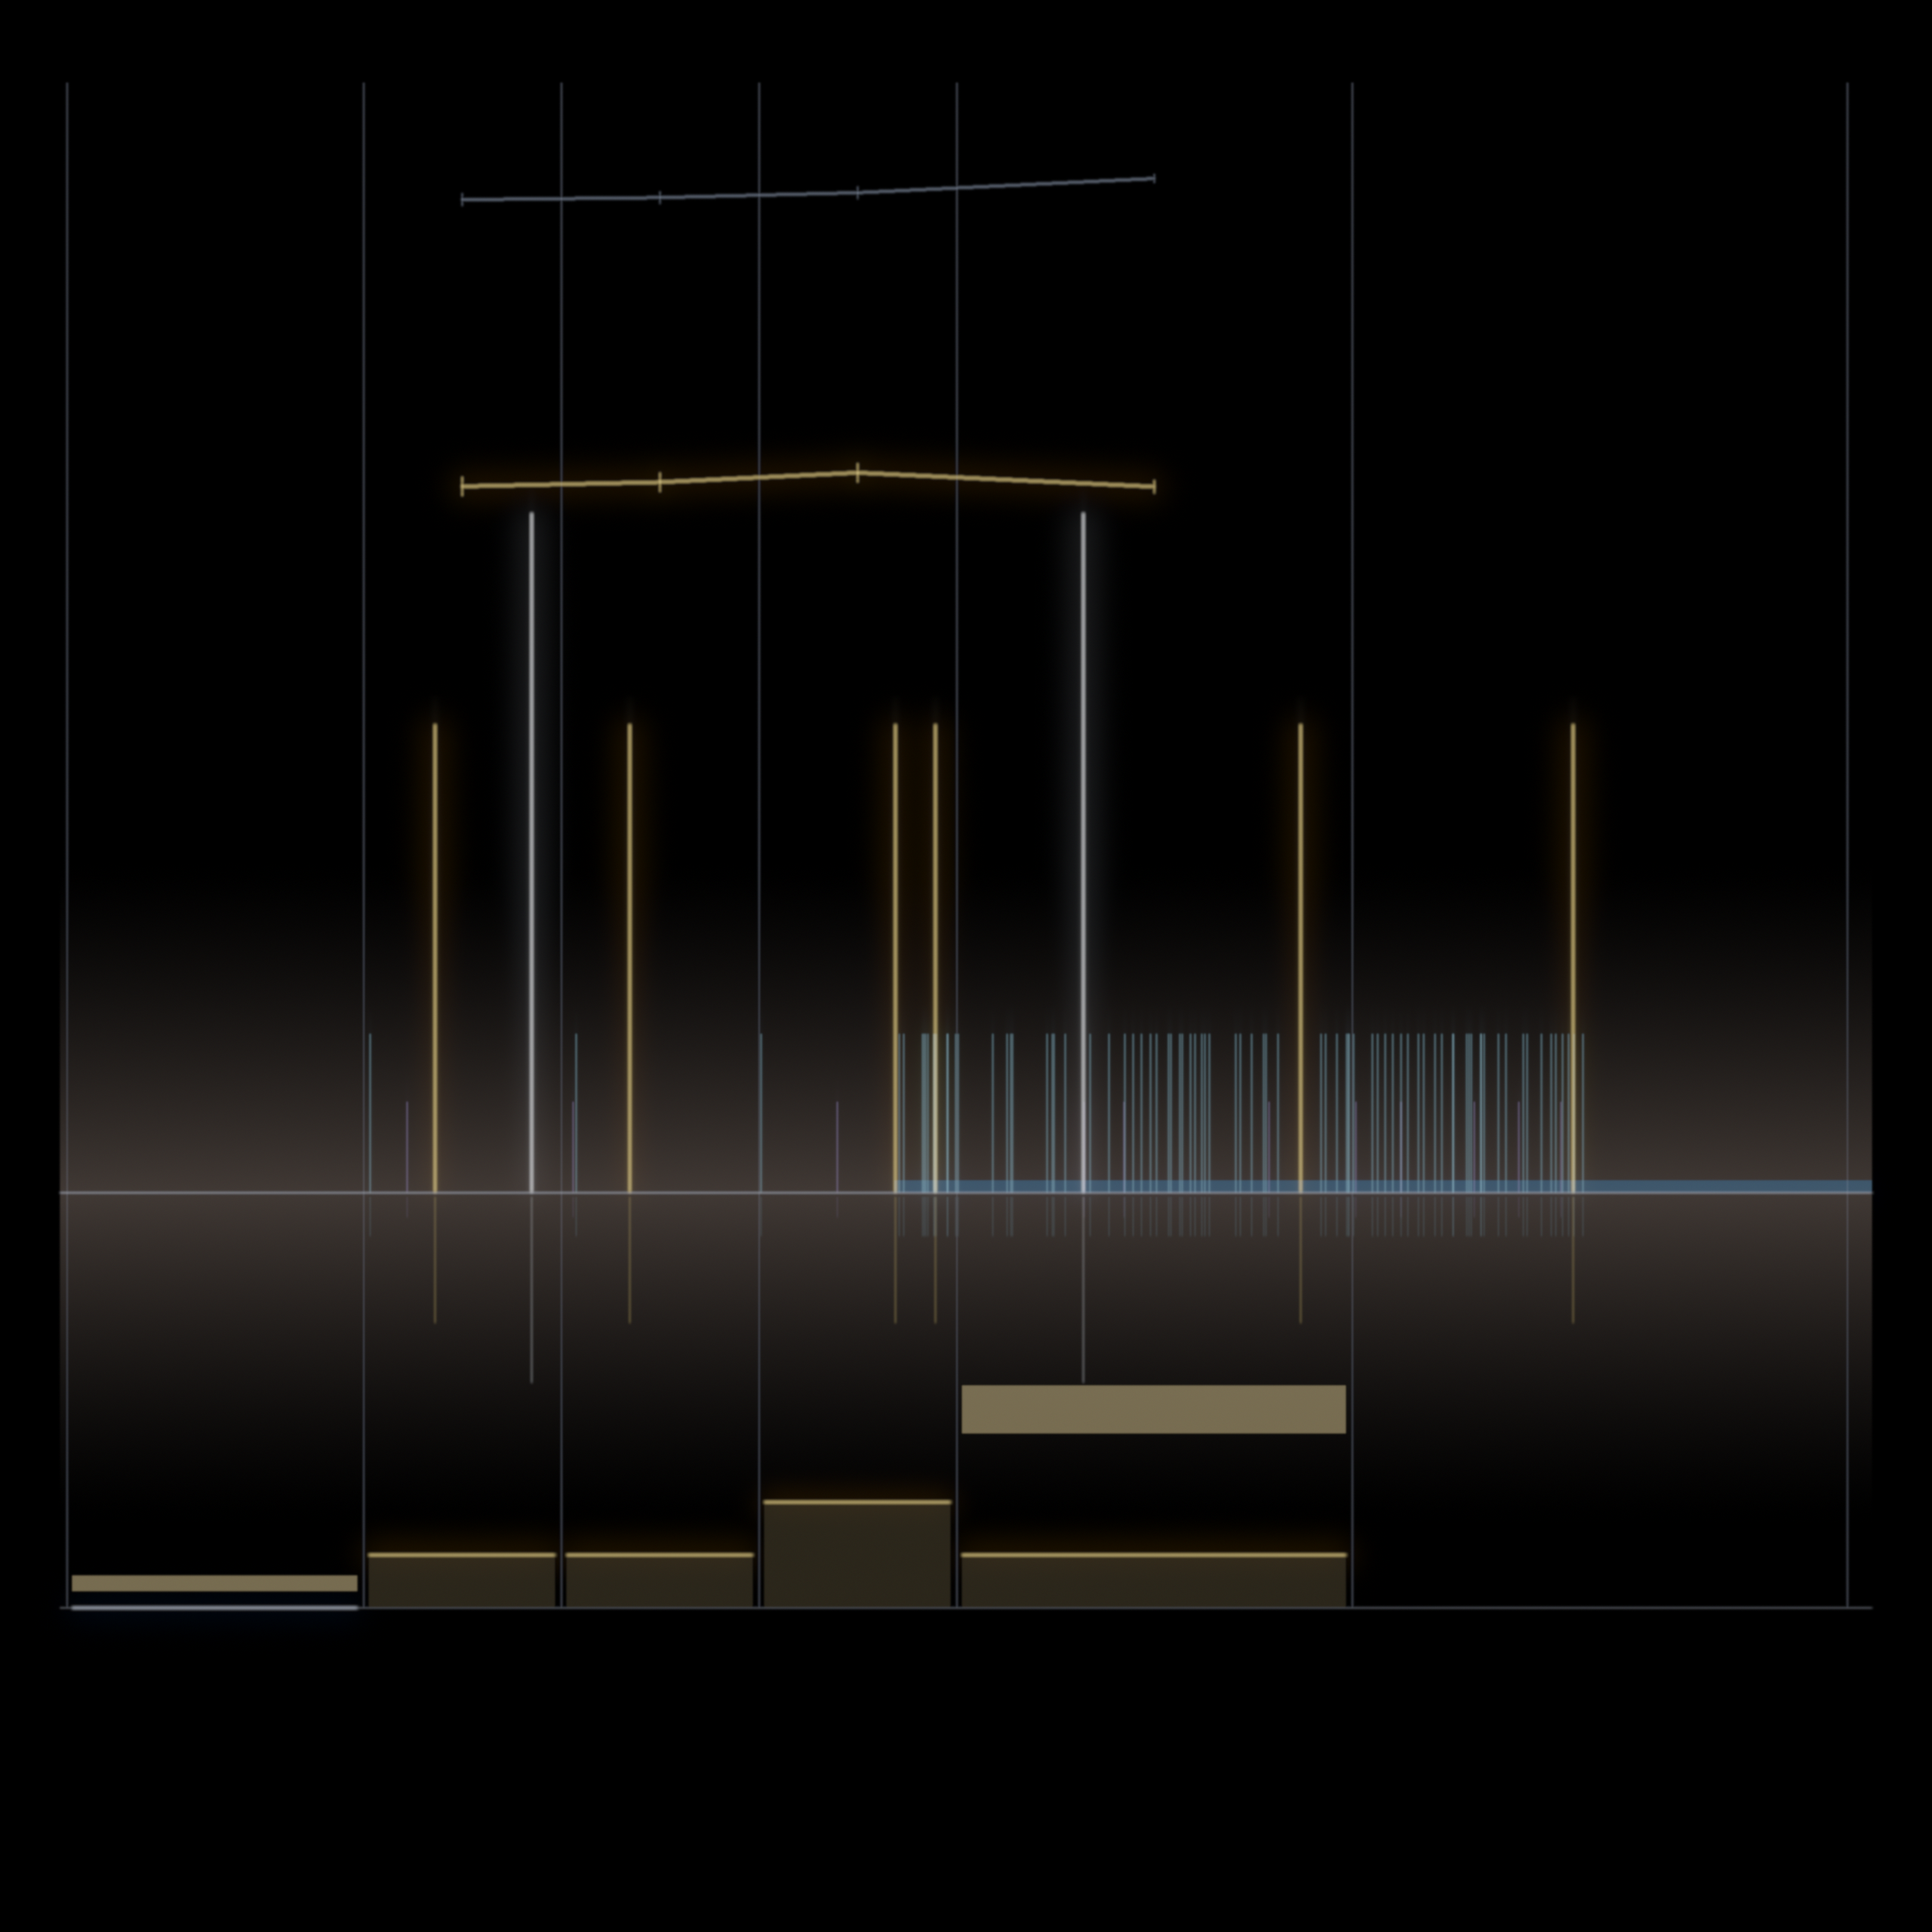
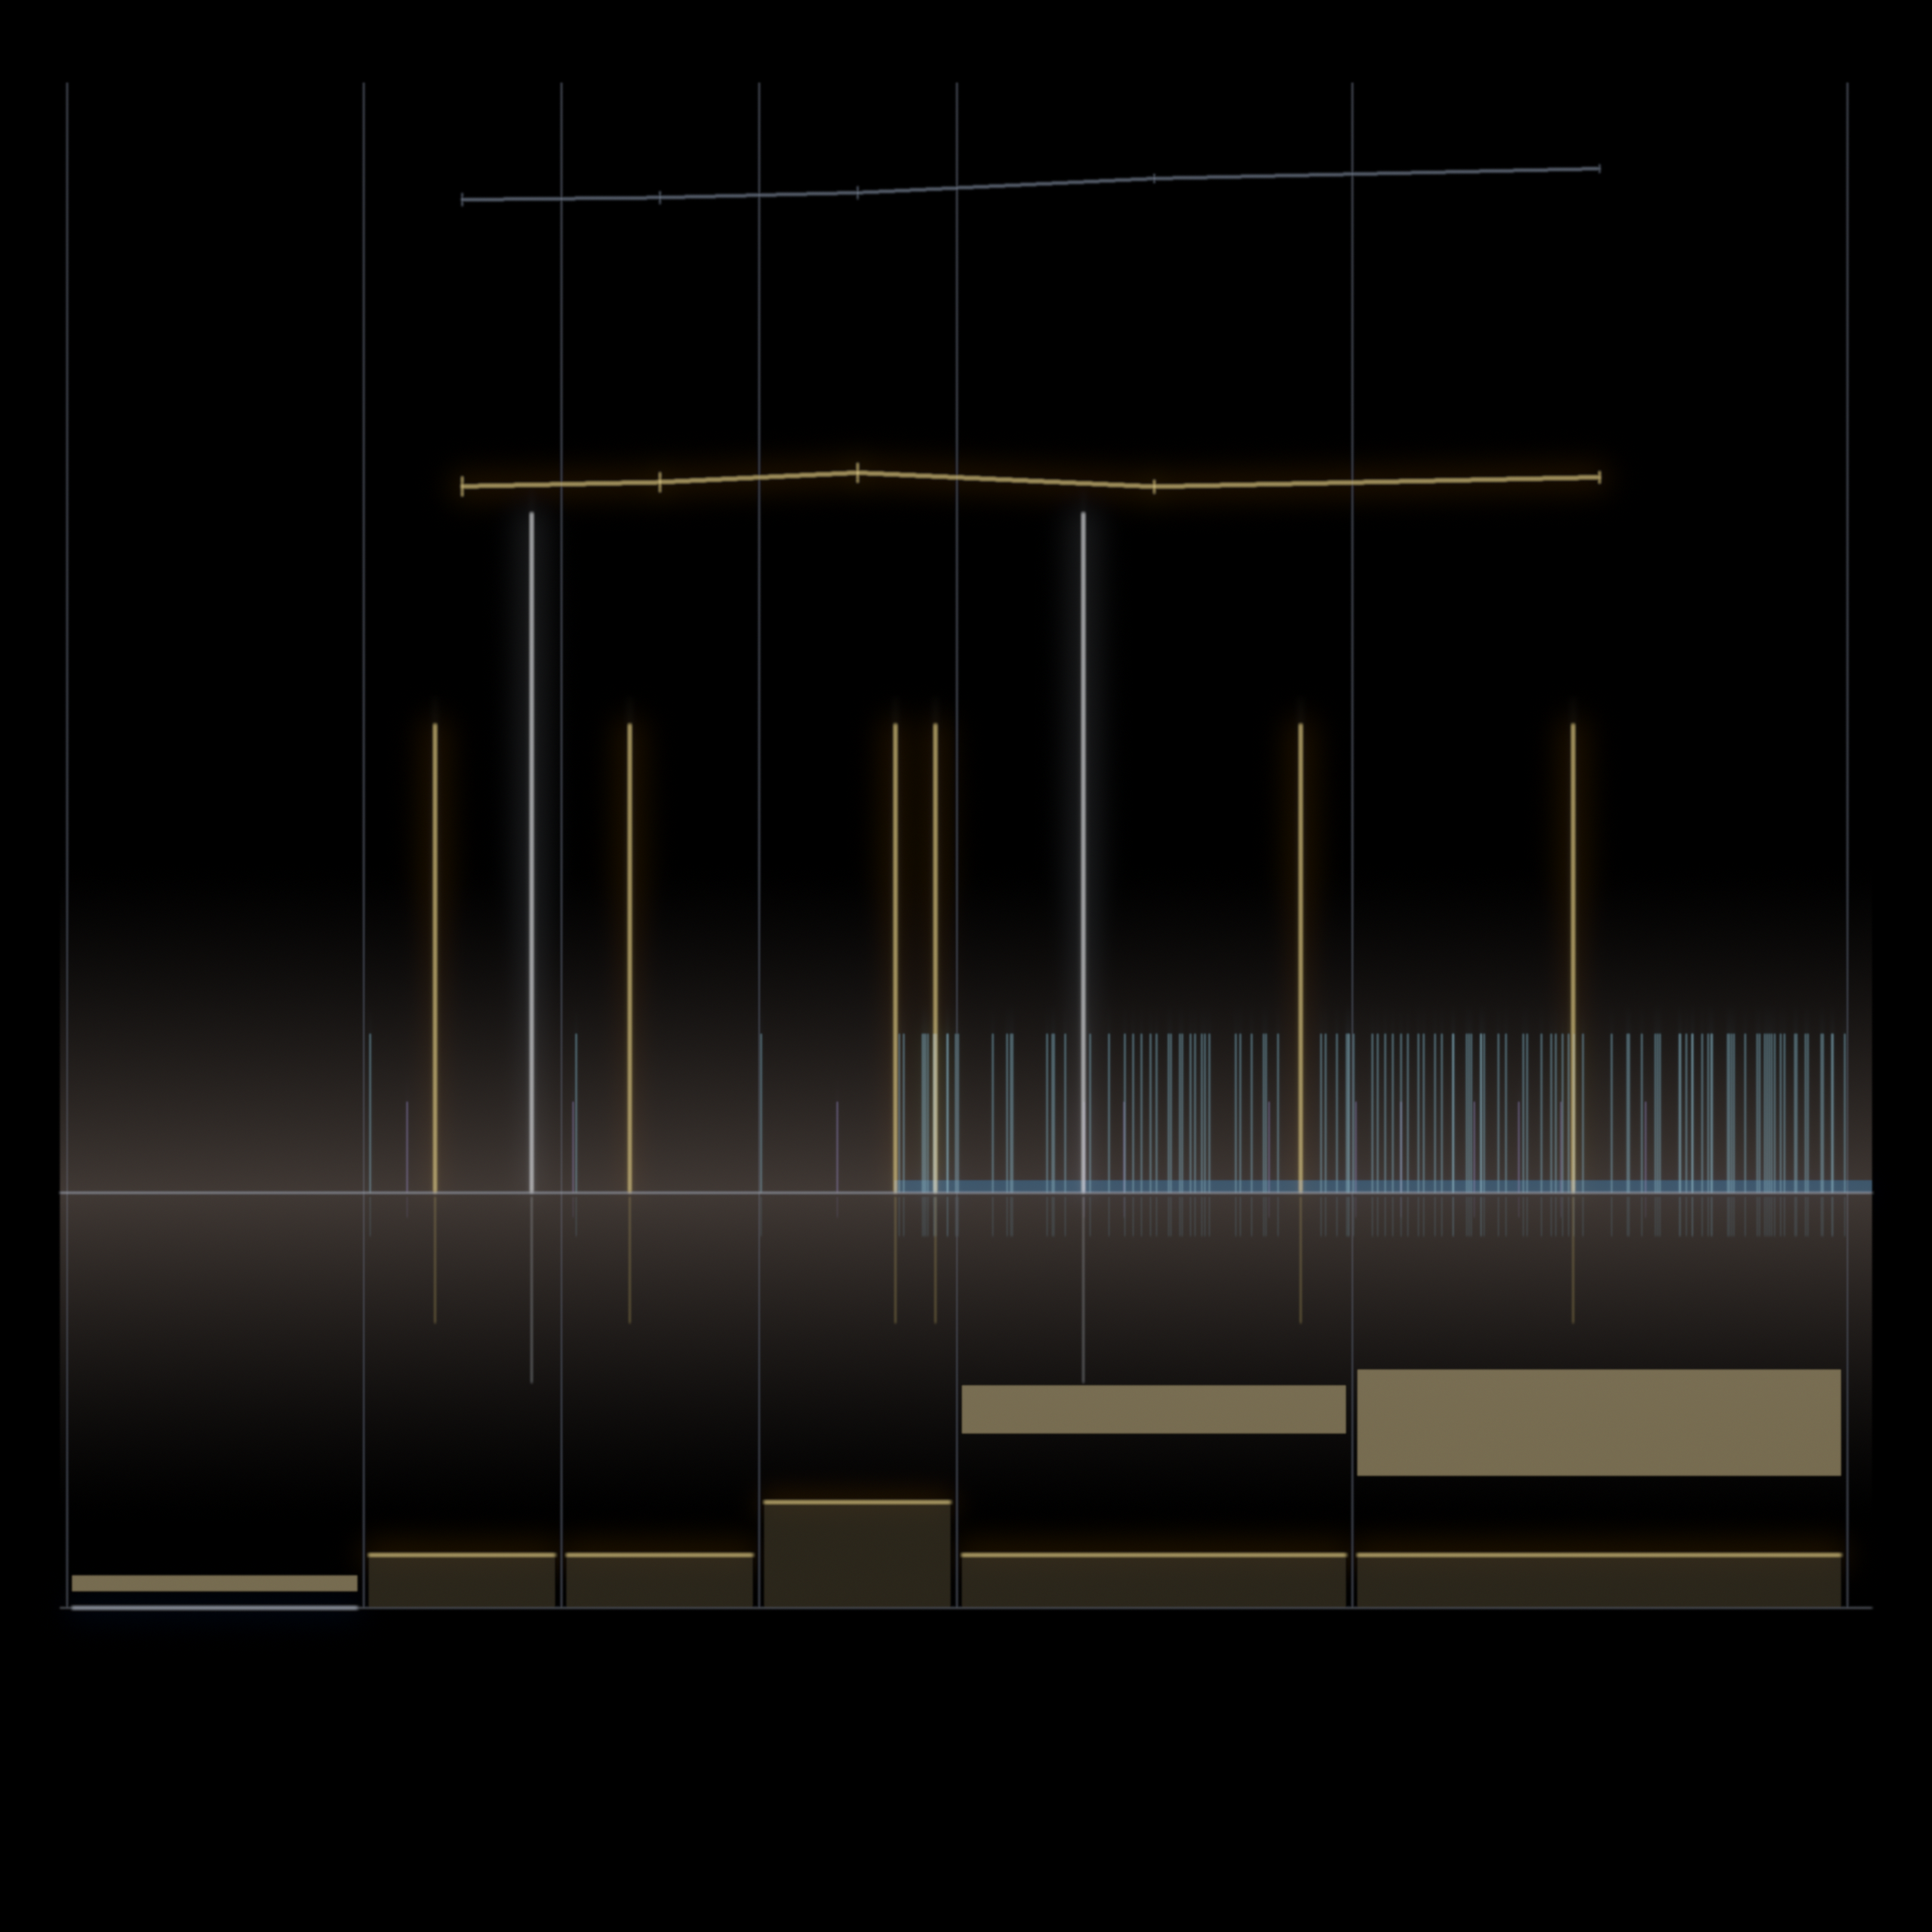
art_t0q7: ATLAS 45 complete — 6th ch-25 fence 1,378,555,660,606 (gate ok), channel cooling verdict (2 quiet windows, P~2.6%), suppression at the 4->5 rung; weather nightscape + results
Claude-Session: https://claude.ai/code/session_01VAiQXHU2Yb6J61SsWKQHCa

diff --git a/art_t0q7/atlas45_finalize.py b/art_t0q7/atlas45_finalize.py
@@ -54,8 +54,11 @@ for n in sextets + new_sextets:
 
 # climate labels
 d.text((xp(4.2e11), 190), "the climate: r₃₄ = quartets per triplet, per window", font=F["sub"], fill=(200, 200, 214))
-d.text((xp(4.1e11), 560), f"channel 24 (ref)  → {r34_24*1e3:.2f}e-3", font=F["mono_s"], fill=(120, 132, 152))
-d.text((xp(4.1e11), 700), f"channel 25        → {r34_25*1e3:.2f}e-3", font=F["mono_s"], fill=GOLD)
+YLO, YHI = 1.2e-3, 8.2e-3
+SKY_Y0, SKY_Y1 = 150, 760
+def yv(v): return SKY_Y1 - (v - YLO)/(YHI - YLO) * (SKY_Y1 - SKY_Y0)
+d.text((xp(1.24e12), yv(r34_24)+16), f"channel 24 (ref) → {r34_24*1e3:.2f}e-3", font=F["mono_s"], fill=(120, 132, 152))
+d.text((xp(1.24e12), yv(r34_25)+16), f"channel 25 → {r34_25*1e3:.2f}e-3", font=F["mono_s"], fill=GOLD)
 # era labels
 d.text((xp(1.7e11), HOR+40), "certified silent era (atlas 42) —", font=F["mono_s"], fill=DIM)
 d.text((xp(1.7e11), HOR+64), "the model said no fence lives here", font=F["mono_s"], fill=DIM)
@@ -63,13 +66,15 @@ d.text((xp(8.35e11), HOR+40), "← every-occurrence logging online (atlas 44)", 
 d.text((W-410, HOR-24), "n →  (0.16 → 1.6 trillion)", font=F["mono_s"], fill=DIM)
 
 # ledger labels
-d.text((80, 2150), "the ledger: gold = observed ch-25 fences per window;  amber band = the model's pre-committed expectation",
+d.text((80, 1700), "the ledger: gold = observed ch-25 fences per window;  amber band = the model's pre-committed expectation",
        font=F["mono_s"], fill=GREY)
 obs45 = l525
 verdict = ("WEATHER — the channel talks again" if obs45 >= 3 else
            ("cooling — below expectation again" if obs45 <= 1 else "within the band"))
-d.text((xp(1.22e12), 2190), f"window 45: {obs45} heard vs E≈2.5–4.5 → {verdict}", font=F["mono_s"], fill=GOLD)
-d.text((xp(8.9e11), 2190), "window 44: 1 vs E≈3.3–4.2 (quiet)", font=F["mono_s"], fill=DIM)
+verdict_short = "still cooling" if obs45 <= 1 else ("weather again" if obs45 >= 3 else "in band")
+d.text((xp(1.21e12), 1736), f"45: {obs45} vs E≈2.5–4.5 → {verdict_short}", font=F["mono_s"], fill=GOLD)
+d.text((xp(8.9e11), 1736), "44: 1 vs E≈3.3–4.2 (quiet)", font=F["mono_s"], fill=DIM)
+d.text((xp(4.05e11), 1736), "two quiet windows: 2 vs E≈6–9, Poisson P≈2.6% — the channel is cooling", font=F["mono_s"], fill=(200, 180, 140))
 
 sex_txt = f"+{len(new_sextets)} new" if new_sextets else "none new (E≈0.5–0.9, P≈40–60%)"
 annotate(img,

diff --git a/art_t0q7/atlas45_results.md b/art_t0q7/atlas45_results.md
@@ -1,0 +1,49 @@
+# Atlas 45 — relay window [1.2e12, 1.6e12) — results & verdict
+
+Engine: `hunt45.c` (= hunt44.c, segmented full factorization, OCC logging),
+4 cores, 92 min. |S ∩ window| = 52,175,577,281 members
+(pre-commit predicted 51–52e9 ✓).
+
+## Counts (gap-25 channel and neighbors)
+
+| pattern | count | first in window |
+|---|---|---|
+| l=3 g=25 | 368,240 | 1,200,001,204,368 |
+| l=4 g=25 | 981 | 1,200,534,996,046 |
+| **l=5 g=25 (fence)** | **1** | **1,378,555,660,606** |
+| l=3 g=24 | 2,403,821 | — |
+| l=4 g=24 | 17,684 | — |
+| l=5 g=24 (quintets) | 69 | 1,201,068,164,225 |
+| l=5 g=23 | 6 | 1,202,831,281,250 |
+| l≥6 (any) | 0 | — |
+
+## The 6th fence
+
+**n = 1,378,555,660,606 ≡ 94 (mod 144)** — the atlas-42 gate obeyed for the
+6th consecutive time. Logged live by the alarm channel mid-scan (this run
+read its own alarm file both mid-run and at end — the 08-24 lesson held).
+
+## Verdict against the pre-committed model (`atlas45_precommit.md`)
+
+- **Fences: 1 heard vs E ≈ 2.5–4.5 (steady model) → QUIET AGAIN.**
+  Two consecutive windows now sit below expectation (window 44: 1 vs
+  E≈3.3–4.2). Combined: 2 observed vs E ≈ 5.8–8.7; Poisson P(≤2 | E≈7.2)
+  ≈ 2.6%. The "quiet channel" reading is strengthening from weather toward
+  law — but the suppression is NOT in r34: r34(25) = 981/368,240 =
+  2.66e-3, comfortably inside the recent band (2.52–2.83e-3).
+  **The suppression lives at the 4→5 level: r45(25) = 1/981 ≈ 1.0e-3 vs
+  3–5e-3 in earlier windows, while ch-24's r45 = 69/17,684 ≈ 3.9e-3 stays
+  normal.** Next-run thread: is a deeper 5-adic obstruction (25 | n at
+  depth 5) throttling the fifth rung specifically?
+- **Sextets: 0 vs E ≈ 0.5–0.9, P(≥1) ≈ 40–60% → silence within expectation.**
+- Channel 24 is getting LOUDER: quintet rate 69/52.2e9 = 1.32e-9 vs
+  0.88e-9 last window (+50%); r34(24) = 7.36e-3 continues its slow rise
+  (6.89/6.92/6.99/7.21/7.36e-3). The two channels are diverging.
+- l=3 g=48: 560 runs (rate steady). Records file: trivial small-gap
+  records only (warm-up), as expected for a resumed range.
+
+Artwork: `atlas45_2560.png` — the full relay [1.6e11, 1.6e12) as a night
+storm-landscape: climate ridges (r34 per window), lightning strikes at the
+exact positions of every certified event, the pre-committed expectation
+bands vs the observed ledger, and the two eras (certified-silent, and
+every-occurrence instrumentation) marked on the ground.

diff --git a/art_t0q7/README.md b/art_t0q7/README.md
@@ -17,5 +17,11 @@ arrangements interrogated for how close to nothing they can force a value:
 3. **THE MESH, RESOLVED** (`mesh25_2560.png`, 2560²) — MO 514559 answered:
    t(x,y,z) = min(x+y, y+z, z+x, ⌊s/2⌋), full proof + machine verification
    on 200³ states. `notes_514559.md`.
-4. **Atlas piece 45** (`atlas45_2560.png`) — ℤ[√2] two-squares relay
-   [1.2e12, 1.6e12): sextet recurrence, ch-25 fences. `atlas45_results.md`.
+4. **THE WEATHER OF THE TWENTY-FIFTH CHANNEL** (`atlas45_2560.png`, 2560²)
+   — Atlas piece 45, two-squares relay [1.2e12, 1.6e12), 52.2e9 members:
+   6th ch-25 fence 1,378,555,660,606 ≡ 94 (mod 144) ✓; the channel stays
+   quiet (1 vs pre-committed E≈2.5–4.5, two windows running, P≈2.6%) —
+   and the suppression lives at the 4→5 rung, not in r34.
+   `atlas45_results.md`, `atlas45_precommit.md`.
+
+Story & lesson: `STORY.md`.
